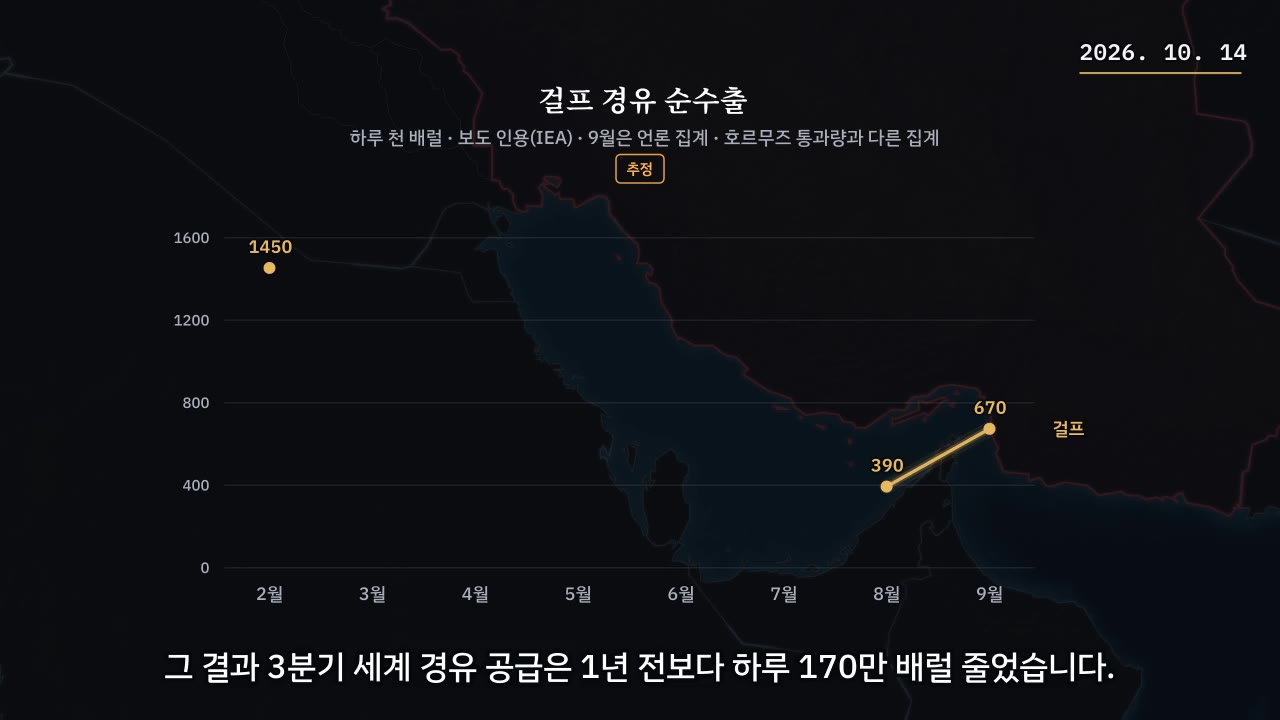
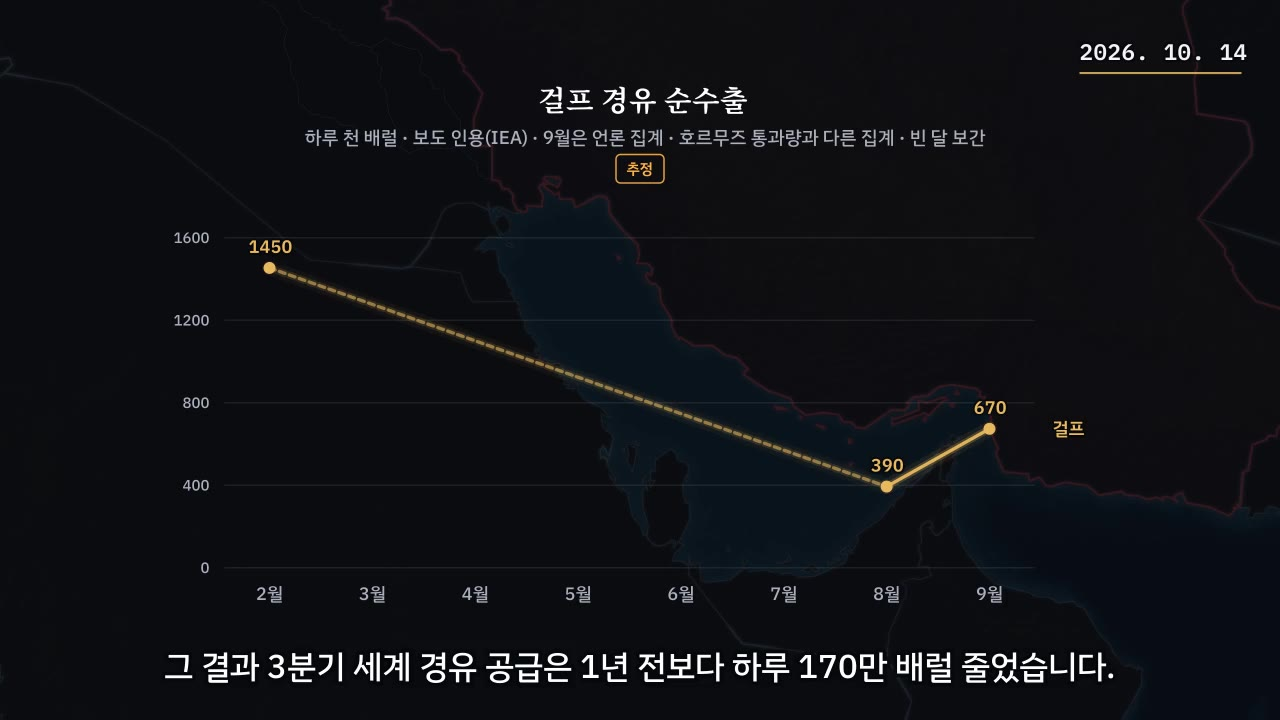
v7.4.0: R-0253 전편 v2 교체 3(UF-126~129, D-0245~0248) — 증거 컷 38
Claude-Session: https://claude.ai/code/session_012yN5MN9eH1tBnNrQ1D8sBG

diff --git a/back_and_forth/261019_151129_R0253_opus_final-v2-replace3.md b/back_and_forth/261019_151129_R0253_opus_final-v2-replace3.md
@@ -1,0 +1,49 @@
+---
+id: R-0253
+from: opus
+to: fable
+kind: phase_report
+responds_to: [D-0245, D-0246, D-0247, D-0248]
+phase: "P3-1"
+version: v7.4.0
+commit: HEAD
+status: info
+---
+
+# 전편 v2 교체 3 — 그래프 복원·보간(UF-126·128) + 그래프 위 카드 0(UF-129) + 발음 수정(UF-127)
+
+artifacts/diesel_road_2026-v7.4.0 **62859cc5** 덮어씀. final.mp4 md5 **554f4f850cf8e75d754fa3a6398bca44** · 976.896초 · 720p · −14.09 LUFS · TP −1.61 dBTP · LRA 4.0 · checks hard 0 · warning 74. 원고 불변(지문 50898199). 콘티 판 재렌더(재합성 타임라인) → 게이트 ② 재기록(D-0243 위임). README 첫 줄 "v2 교체 3 …", MD5SUMS 갱신, 증거 컷 38(그래프 3 + 두 문장 프레임 2 추가), audio/ 에 두 문장 wav.
+(2e1fba69 = 그래프 복원만, 사용자 미전달 — 이 판으로 대체.)
+
+## 1. UF-126 그래프 복원(D-0245)
+- v1 dual_line 3종을 수치·record·출처 줄·축 그대로(track_v1 에서 복사, data/series 대조 통과) v2 문장에 앵커: 정제 처리량 act1_14~15, 경유 해상 수출 act1_20, 걸프 경유 순수출 act4_21~22.
+- 걸프 앵커 사유: v2 걸프는 4막. act4_20 은 석유제품 전체, act4_21~22 가 경유 문장(호르무즈 통과 경유·세계 경유 공급). 그래프는 IEA 순수출이라 출처 줄에 "호르무즈 통과량과 다른 집계"를 붙여 구분.
+
+## 2. UF-128 보간(D-0247)
+- rules panels.charts.dual_line.gap_policy interpolate · interpolated_style {dash [4,3], alpha 0.6, point false} · gap_note "빈 달 보간". 실측 사이만, 외삽 없음, 보간 점에 점·값 라벨 없음. 출처 줄 끝 표기는 코드가 붙임(load_project → subtitle_render).
+- chart_honesty hard 3종 추가: [interp-extrapolated]·[interp-style]·[interp-unmarked]. provenance panels.used[].interpolated_idx: 정제 [[2,5]], 수출 [[2,3,5]], 걸프 [[1,2,3,4,5]].
+- 스키마 주석·예제(prompts/examples/panels/dual_line.yaml, null 포함)·프리뷰 고정 자료 세 곳 동시. data/series revision_note 문구만 수정(null 불변).
+- 골든 hormuz 에 dual_line 없음 — 골든 영향 0(E 단계 화소 비교에서 재확인).
+
+## 3. UF-129 그래프 위 카드(D-0248) — 패널이 떠 있는 동안 화면 요소 표
+| 패널 | 시각(초) | 카드·기사·사진·인용·뱃지 |
+|---|---|---|
+| 러시아 정제 처리량 | 123.1~132.7 | 없음(지도 층 flight 3개가 126.6초에 끝남 — 패널 덮개 아래) |
+| 러시아 경유 해상 수출 | 160.2~165.4 | 없음 |
+| 걸프 경유 순수출 | 722.3~734.7 | 없음 |
+- 그래프를 가리던 카드 act1_15·act4_21·act4_22 와 계단식 카드 act1_20 항목은 연출에서 뺐다(수치는 자막·패널 점). 자동 이동·숨김 없음.
+
+## 4. UF-127 발음(D-0246 + 보충 D258)
+- 원인 실측: 엔진 G2P 가 아니라 발음 사전 "유가":"유까" 가 '경유가·제트유가' 안의 '유가' 를 치환(TTS-AP-069 재발, TTS-AP-083).
+- 조치: rules tts_rules.short_key_boundary {max_len 2, allow_after 수사 음절}(한글 짧은 키는 앞 글자가 한글 음절이 아니거나 수사 음절일 때만) + tts_rules.tensification_traps(명사 × 조사 → 예외 항목 생성, 명사 자체 사전 읽기 유지 — 원유가 → 워뉴가). spoken 은 띄움 대신 그대로(승인됨).
+- 회귀: 전 프로젝트 790문장, 수정 전(0fc86a73) 대비 바뀐 것 = diesel act2_35·act3_15 두 문장뿐.
+- MMS '유'→'가/까' 간격(ms): act2_35 수정 0 · 띄움 0 · 옛 0 / act3_15 수정 100 · 옛 80 / 대조 '유까가' 40 — 모두 120 이하.
+- 청취 자료: docs/handoff/reports/phaseV740/uf127/ (최종 두 문장 wav + 탐침 6 + 표), artifacts audio/.
+- 재합성: 두 문장만(총 976.94 → 976.90초).
+
+## 5. 비차단 관찰
+- act3_15 프레임에서 러시아 국기 뱃지가 동해 위에 있다(D-0241 drift 구간 cam_at 배치, flag_territory 통과). D-0240 §4 는 블라디보스토크 국기만 다뤘다 — 바꾸지 않았다.
+- 걸프 그래프 출처 줄이 길다(panel_overflow 통과).
+
+## 6. 다음
+장치: [series-unused]·[panel-dropped](UF-126) · 린트 tts-tensification(UF-127) · 보간 테스트(UF-128) · [card-over-panel](UF-129) → UF-126~129 guarded → E 단계(빠른 묶음 + 영향 느린 노드, 골든 화소 비교, DEVLOG·CHANGELOG, merge --no-ff) → 최종 R.
